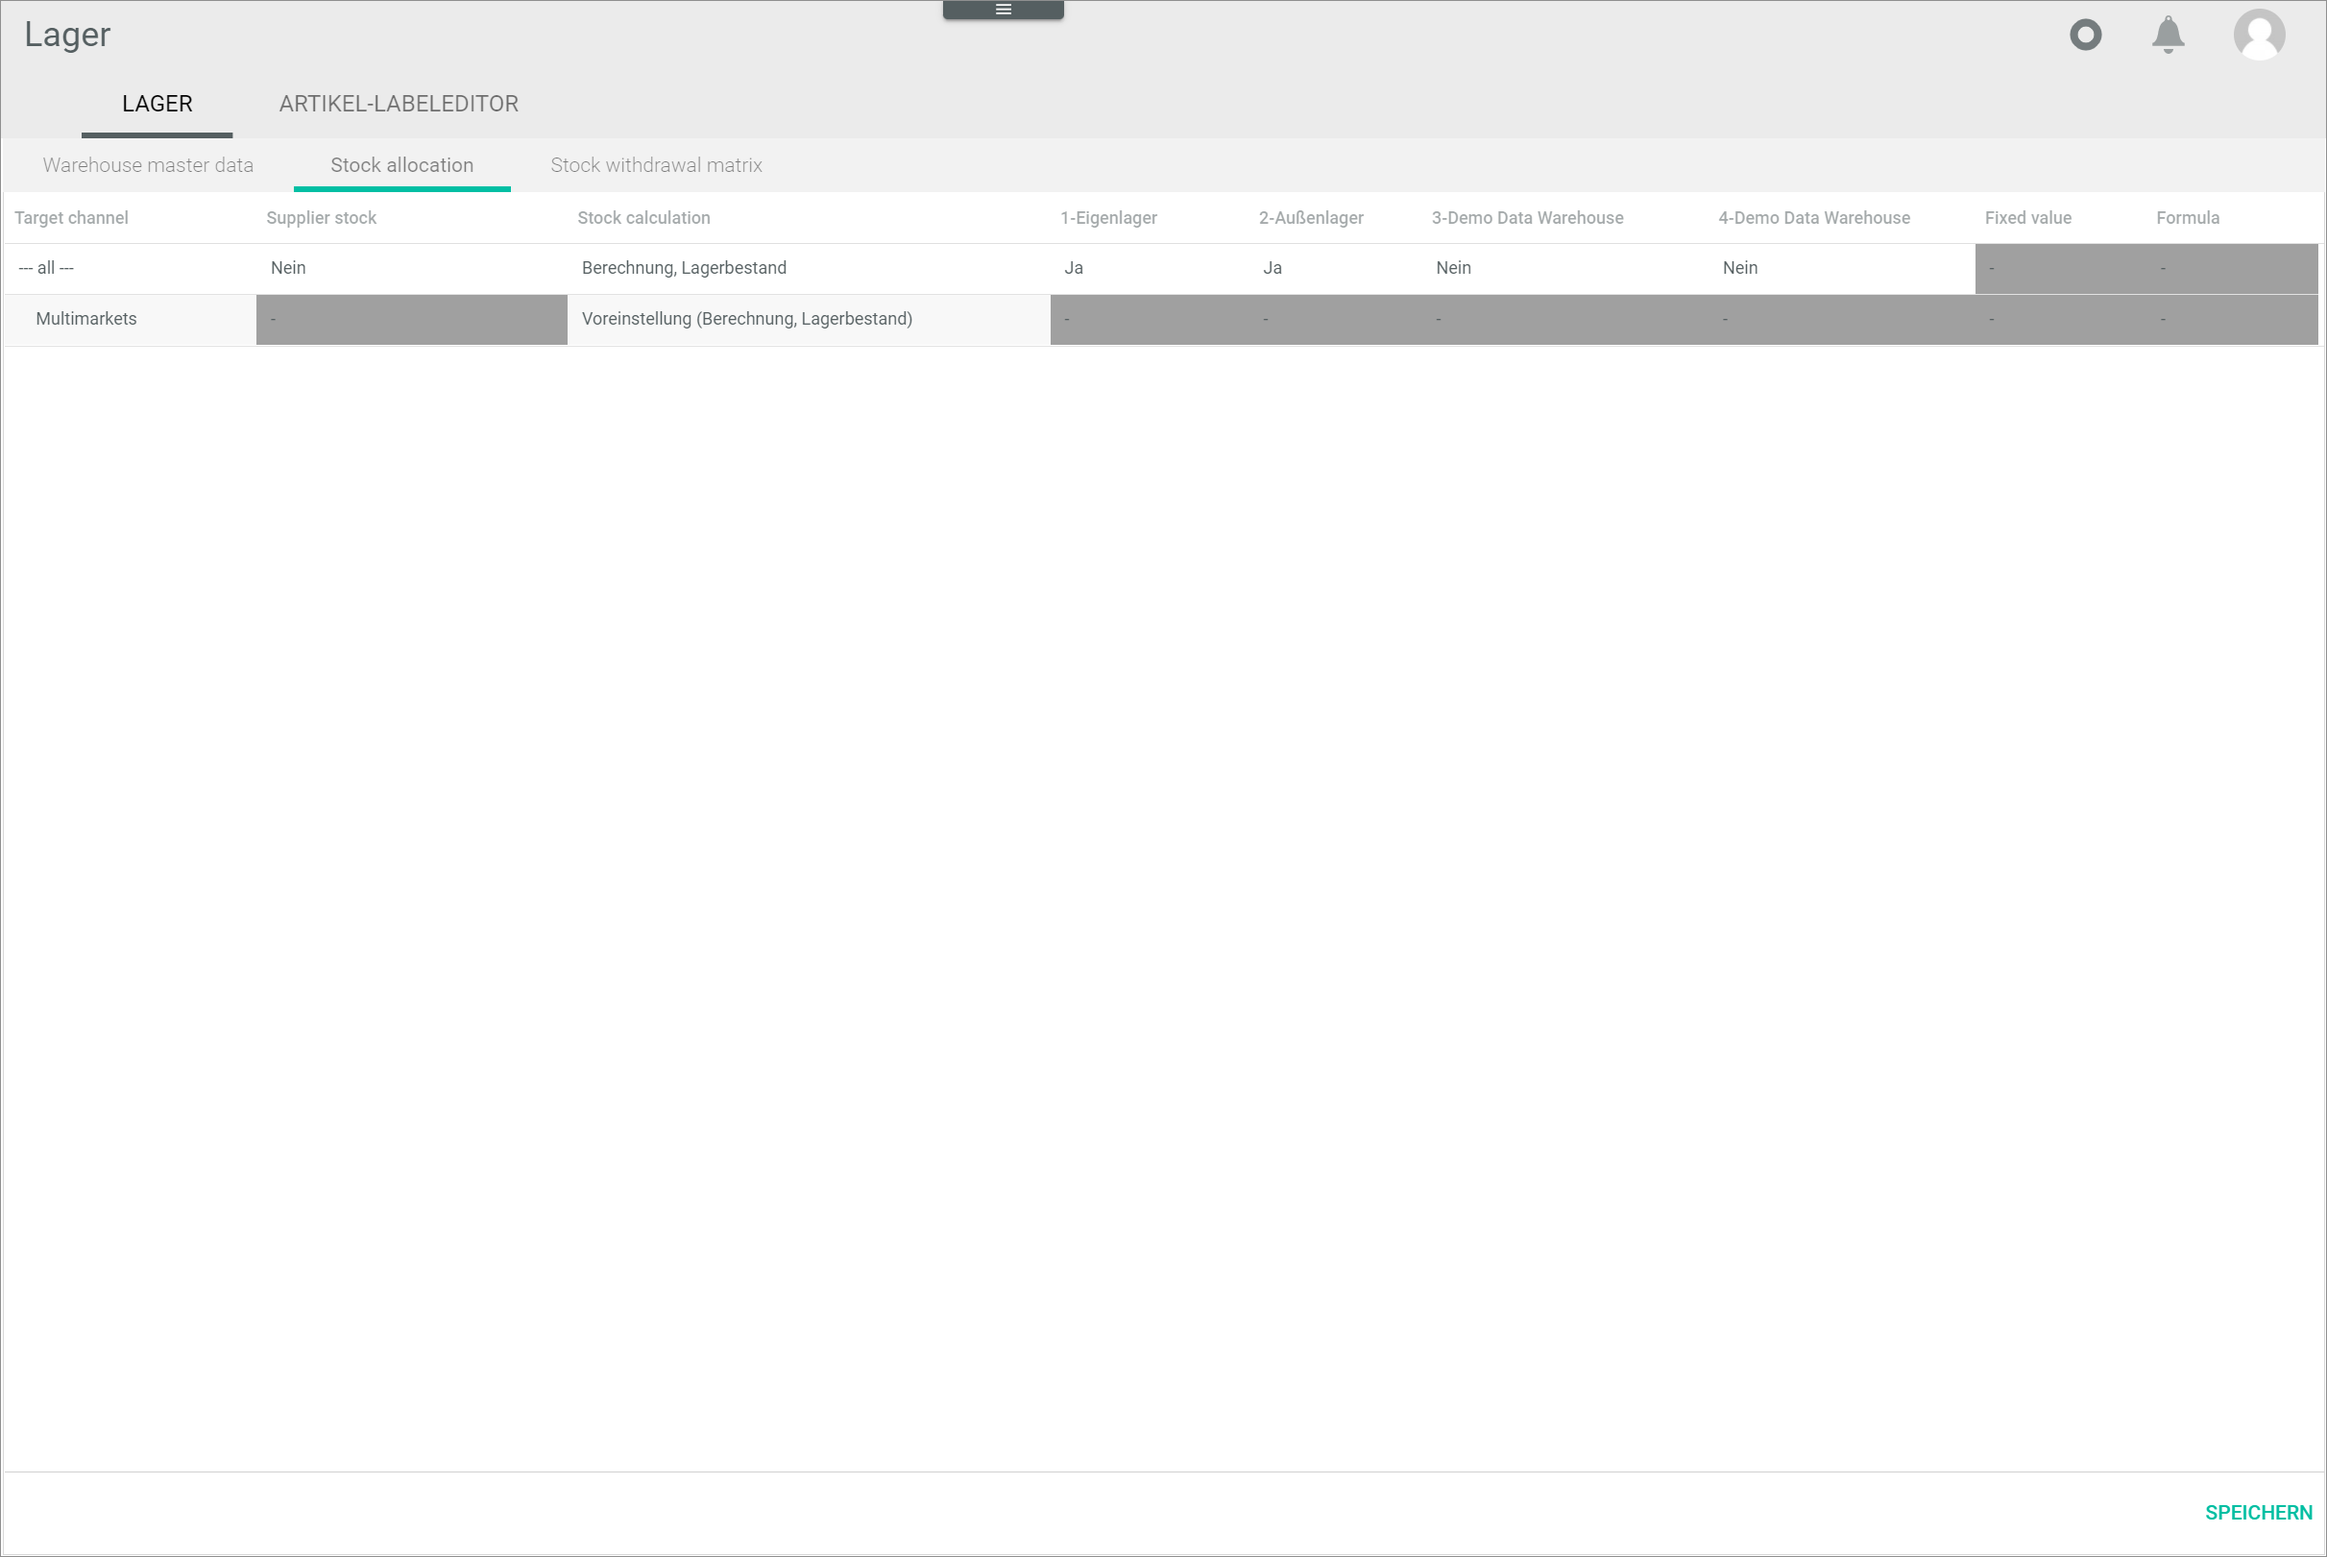
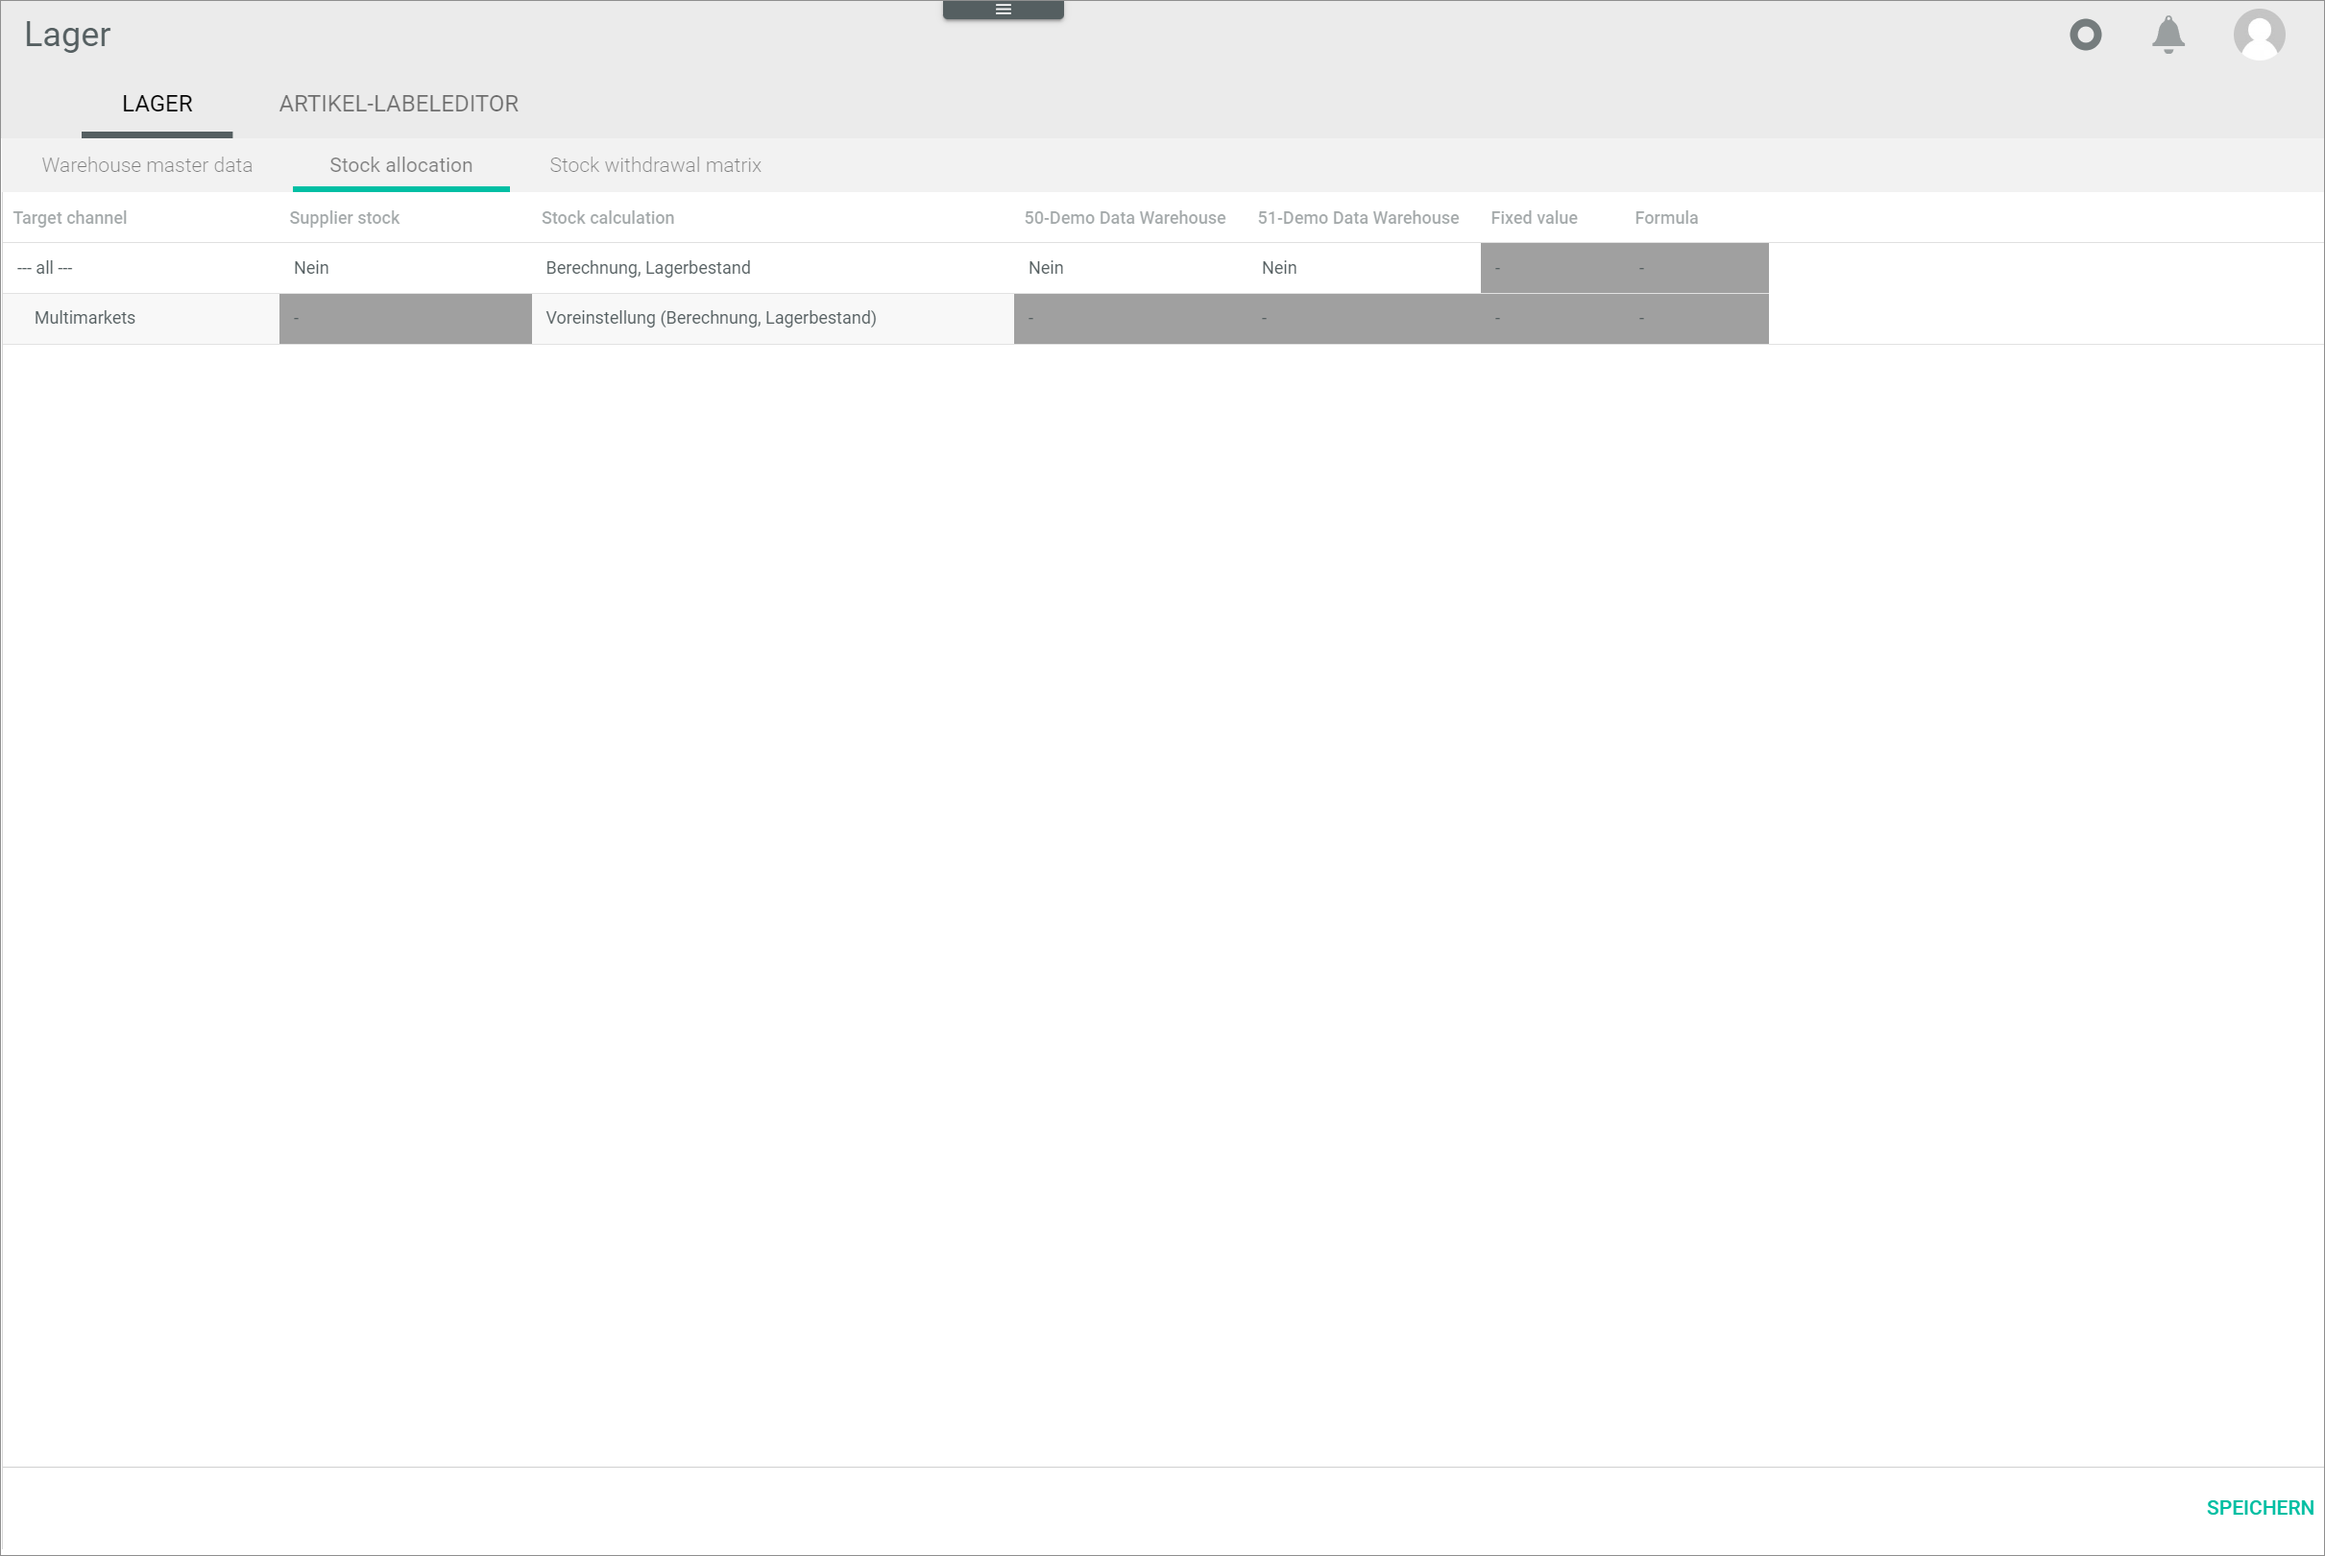
ACD-892
Stock allocation, warehouses

diff --git a/RetailSuiteWarehousing/Integration/04_ConfigureStockAllocation.md b/RetailSuiteWarehousing/Integration/04_ConfigureStockAllocation.md
@@ -4,17 +4,11 @@
 
 # Stock allocation
 
-The stock allocation function serves the purpose to update stock levels automatically across all your sales channels. The stock allocation table allows you to define which value should be indicated as available stock in each sales channel. There are different methods you can choose from to calculate the available stock. The calculated stock amount is then transferred to the *PIM* product, where it is displayed in the *Stock level* field. From the *PIM* module, the calculated stock amount is transferred via ETL to the *Omni-Channel* module, and then there via driver to the corresponding sales channel. 
+The stock allocation function allows you to update the stock levels automatically across all your sales channels. In the stock allocation table, you can define which value should be indicated as available stock in each sales channel. There are different methods you can choose from to calculate the available stock. The calculated stock amount is then transferred to the *PIM* product, where it is displayed in the *Stock level* field. From the *PIM* module, the calculated stock amount is transferred via ETL to the *Omni-Channel* module, and from there to the corresponding sales channel via driver. 
 
-The *Target channel* column displays all target "locations" where the calculated stock value is transferred in the *PIM* module. 
+The stock allocation table includes automatically all warehouses you have created. You can decide any time if you want to include the stock in a specific warehouse in the stock calculation. For detailed information to create a warehouse, see [Create a warehouse](./02_ConfigureWarehouses.md#create-a-warehouse). 
 
-[comment]: <> (Include following columns: target channel, where the calculated value is transferred to, and supplier stock, if you want to include it in the calculation. What is actually meant? Does it include the stock at the supplier? Or just the ordered supplier stock? That is, btw, already included in one of the calculation formulas)
-
-The stock allocation table integrates all the warehouse groups that have been created. For detailed information to create a warehouse group, see [Create a warehouse group](./01_ConfigureWarehouseGroups.md#create-a-warehouse-group). You can decide if you want to include the stock in those warehouse group in the stock calculation.
-
-You can set up a calculation of the stock that will be updated from the *Warehousing* module to PIM product. Attribute: stock/Lagerbestand: Number (calculated result of the settings in the stock allocation table)
-
-Depending on the preconfigured target channels and warehouse groups, the displayed columns and rows will vary. 
+Depending on the preconfigured target channels and warehouses, the displayed columns and rows will vary. 
 
 #### Prerequisites
 

diff --git a/RetailSuiteWarehousing/Integration/02_ConfigureWarehouses.md b/RetailSuiteWarehousing/Integration/02_ConfigureWarehouses.md
@@ -12,6 +12,8 @@ Create one or more specific warehouses from which the stock is taken.
 
 A warehouse group is created, see [Create a warehouse group](#create-a-warehouse-group).
 
+[comment]: <> (Nicht unbedingt, wenn keine Gruppe, kann man immer noch no warehouse group auswählen)
+
 #### Procedure
 
 *Warehouse > Settings > Tab WAREHOUSE > Tab Warehouse master data*
